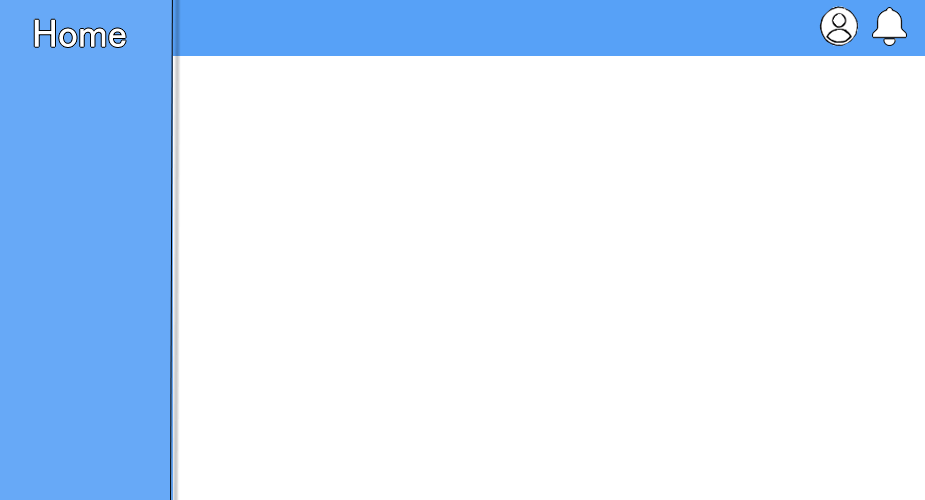
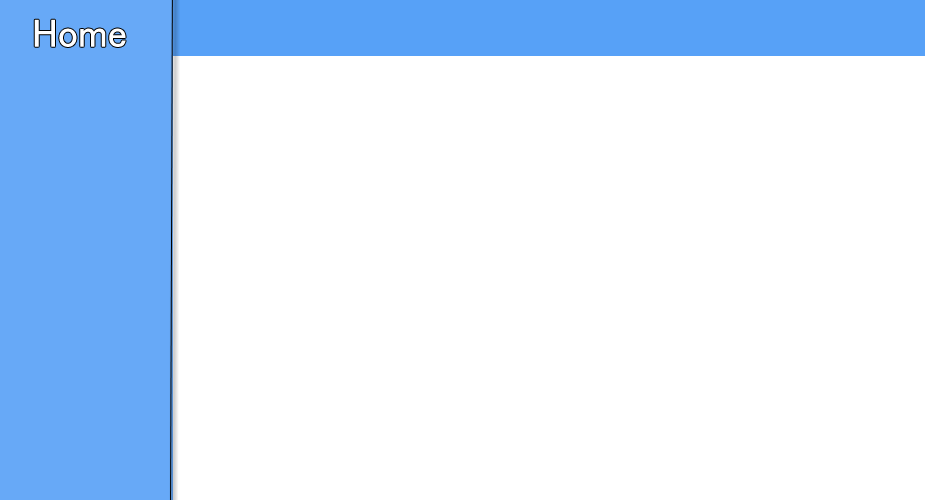
homepage

diff --git a/homepg.py b/homepg.py
@@ -11,26 +11,26 @@ class Homepage:
         bg_label = Label(self.root, image=bg_photo)
         bg_label.place(x=0, y=0, relwidth=1, relheight=1)
 
-        label = Label(self.root, text="DegreeBee", font=("Roboto", 24), bg="#57a1f8")
-        label.pack(pady=7)
-        sidebar = Frame(self.root, bg="#68acf4", width=170, height=430)
+        label = Label(self.root, text="DegreeBee", font=("Microsoft YaHei UI Light", 24,"bold"), bg="#57a1f8")
+        label.pack(pady=5)
+        sidebar = Frame(self.root, bg="#57a1f8", width=170, height=430)
         sidebar.pack(side=LEFT)
         sidebar.pack_propagate(False)
 
         self.buttons = []  # Make buttons an instance variable
 
         # Create the button under 'Home'
-        button1 = Button(sidebar, text="Journal", bg="#68acf4", fg="black", font=("Roboto", 18), relief=FLAT, width=20,
+        button1 = Button(sidebar, text="Journal", bg="#57a1f8", fg="black", font=("Microsoft YaHei UI Light", 18,"bold"), relief=FLAT, width=20,
                          command=lambda: self.highlight_button(button1))  # Use self to call the method
         button1.pack(pady=2)
         self.buttons.append(button1)
 
-        button2 = Button(sidebar, text="Feature 2", bg="#68acf4", fg="black", font=("Roboto", 18), relief=FLAT, width=20,
+        button2 = Button(sidebar, text="Feature 2", bg="#57a1f8", fg="black", font=("Microsoft YaHei UI Light", 18,"bold"), relief=FLAT, width=20,
                          command=lambda: self.highlight_button(button2))
         button2.pack(pady=2)
         self.buttons.append(button2)
 
-        button3 = Button(sidebar, text="Feature 3", bg="#68acf4", fg="black", font=("Roboto", 18), relief=FLAT, width=20,
+        button3 = Button(sidebar, text="Feature 3", bg="#57a1f8", fg="black", font=("Microsoft YaHei UI Light", 18,"bold"), relief=FLAT, width=20,
                          command=lambda: self.highlight_button(button3))
         button3.pack(pady=2)
         self.buttons.append(button3)
@@ -40,7 +40,7 @@ class Homepage:
         content_frame.pack(expand=True)
 
         # Add a label or content to show it's related to the "Open Feature"
-        content_label = Label(content_frame, text="You have opened the feature!", font=("Roboto", 24), bg="white")
+        content_label = Label(content_frame, text="You have opened the feature!", font=("Microsoft YaHei UI Light", 24), bg="white")
         content_label.pack(pady=20)
 
         self.root.mainloop()
@@ -48,9 +48,9 @@ class Homepage:
     def highlight_button(self, selected):
         # Reset the background of all buttons
         for button in self.buttons:
-            button.config(bg="#68acf4", relief=FLAT)
+            button.config(bg="#57a1f8", relief=FLAT)
 
         # Highlight the selected button
-        selected.config(bg="lightblue", relief=GROOVE)
+        selected.config(bg="#57a1f8", relief=GROOVE)
 
 s = Homepage()

diff --git a/devtools.py b/devtools.py
@@ -21,5 +21,5 @@ def find_file(filename):
     else:
         return None
 
-font = "Microsoft YaHei UI Light"
+theame_font = "Microsoft YaHei UI Light"
 resolution = "925x500"
